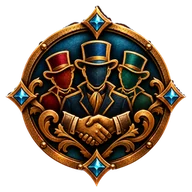
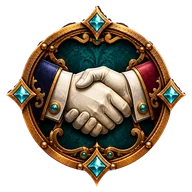
Nuevas insignias de Cálculo Mental y Amigos, más sencillas y legibles (cache 43)
Claude-Session: https://claude.ai/code/session_01A1K7Ct3kZoDeRkFiucYXDh

diff --git a/sw.js b/sw.js
@@ -38,7 +38,7 @@
 // styles/main.css, src/data/medals.js, src/utils/store.js y src/online/duels.js (ya en el shell).
 // 2.0 (Prompt 5, tarjeta de compartir): subido de 10 a 11; nuevo src/share/share-card.js
 // (añadido al shell) y cambiaron index.html y src/online/duels.js.
-const CACHE_VERSION = 42;
+const CACHE_VERSION = 43;
 const CACHE_NAME = `sedq-shell-v${CACHE_VERSION}`;
 
 // Rutas relativas al propio sw.js (que vive en la raíz de la app, tanto en
